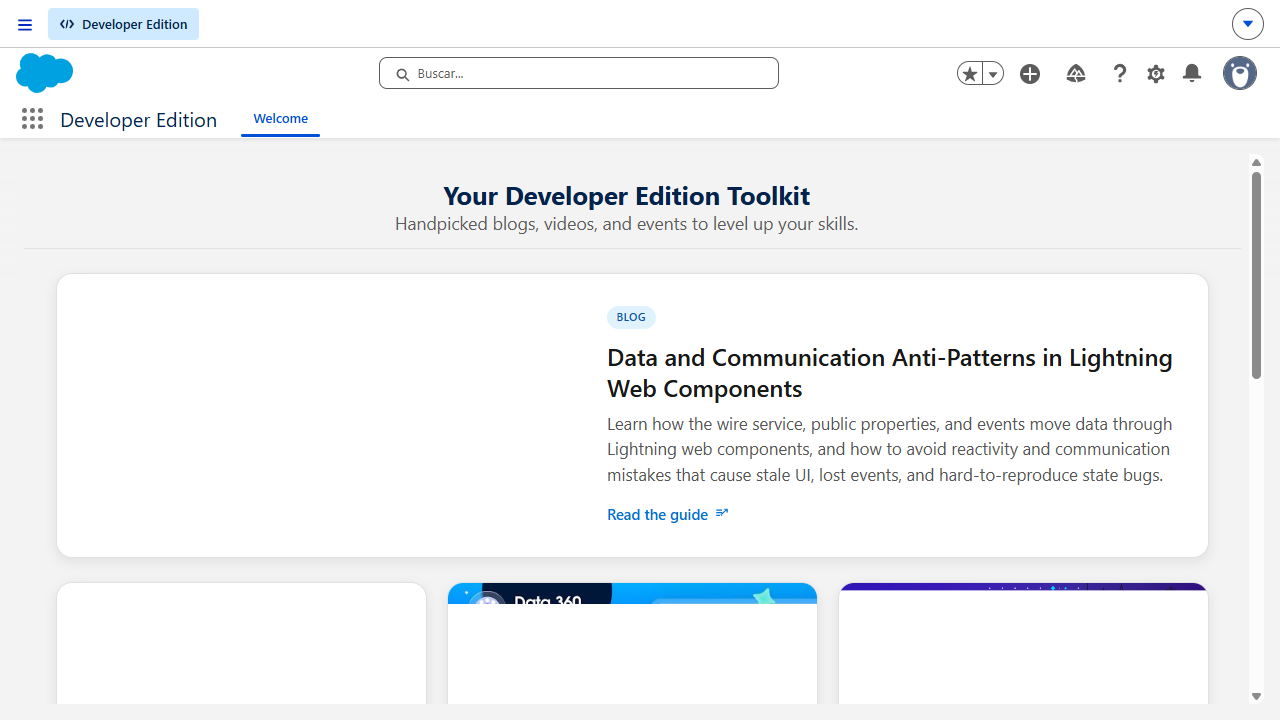
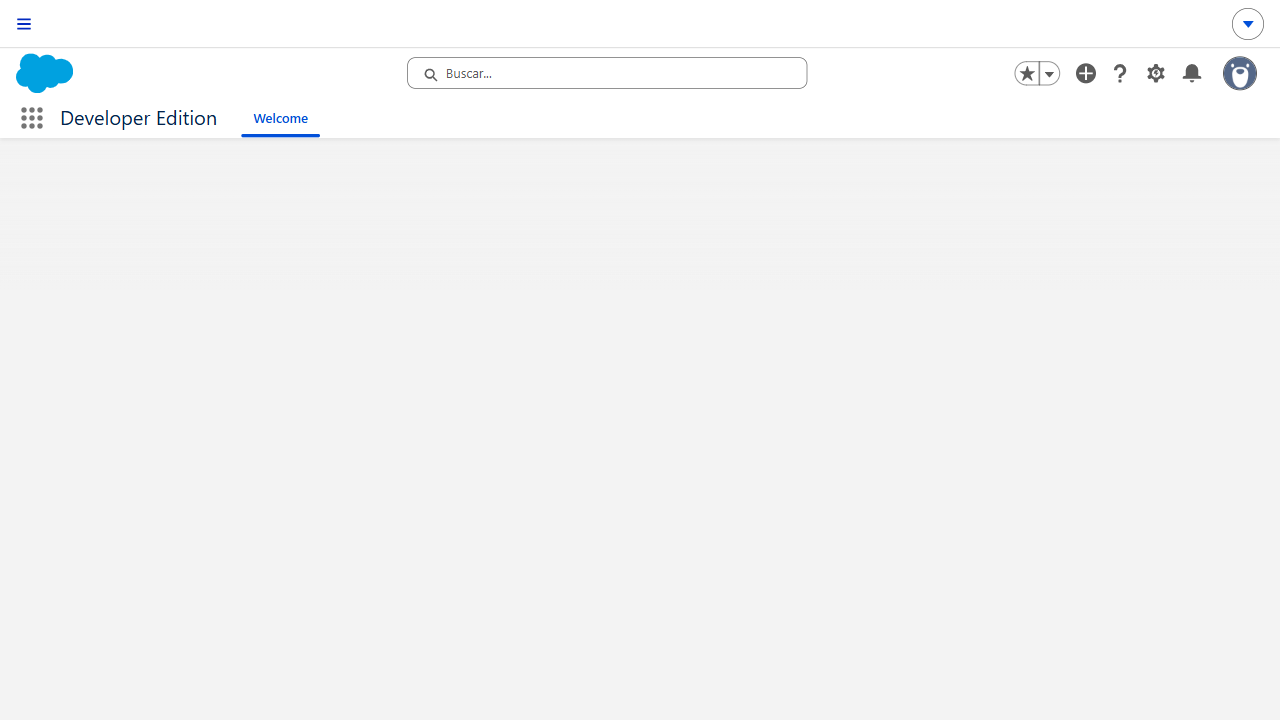
Automation Working with Cookies File
cookieTest:
Automation working after you run salesforce-ui.spec.js

salesforce-ui.spec.js:
Manual intervention to create session/cookies.json

diff --git a/tests/cookieTest.spec.js b/tests/cookieTest.spec.js
@@ -1,0 +1,29 @@
+const fs = require('fs');
+const {test, expect, chromium} = require("@playwright/test");
+
+test("Salesforce Login With Saved Session", async ({ page }) => {
+    // Check if cookies file exists
+    if (fs.existsSync('session/cookies.json')) {
+        // Load saved cookies
+        const cookies = JSON.parse(fs.readFileSync('session/cookies.json'));
+        await page.context().addCookies(cookies);
+        console.log("✅ Cookies loaded successfully!");
+        // Go directly to Salesforce - no login needed!
+        await page.goto("https://login.salesforce.com");
+        
+
+        // await expect(page).toHaveTitle("Login | Salesforce");
+
+        await page.locator("#username").fill(process.env.USER);
+        console.log(process.env.USER);
+        await page.locator("#Login").click();
+    
+        await page.locator("#password").fill(process.env.PASSWORD);
+        console.log(process.env.PASSWORD);
+        await page.locator("#Login").click();
+        await expect(page).toHaveTitle("Lightning Experiences | Salesforce")
+        await page.screenshot({ path: "screenshots/session-loaded.png" });
+    } else {
+        console.log("❌ No cookies found - Please run the login test first!");
+    }
+});
